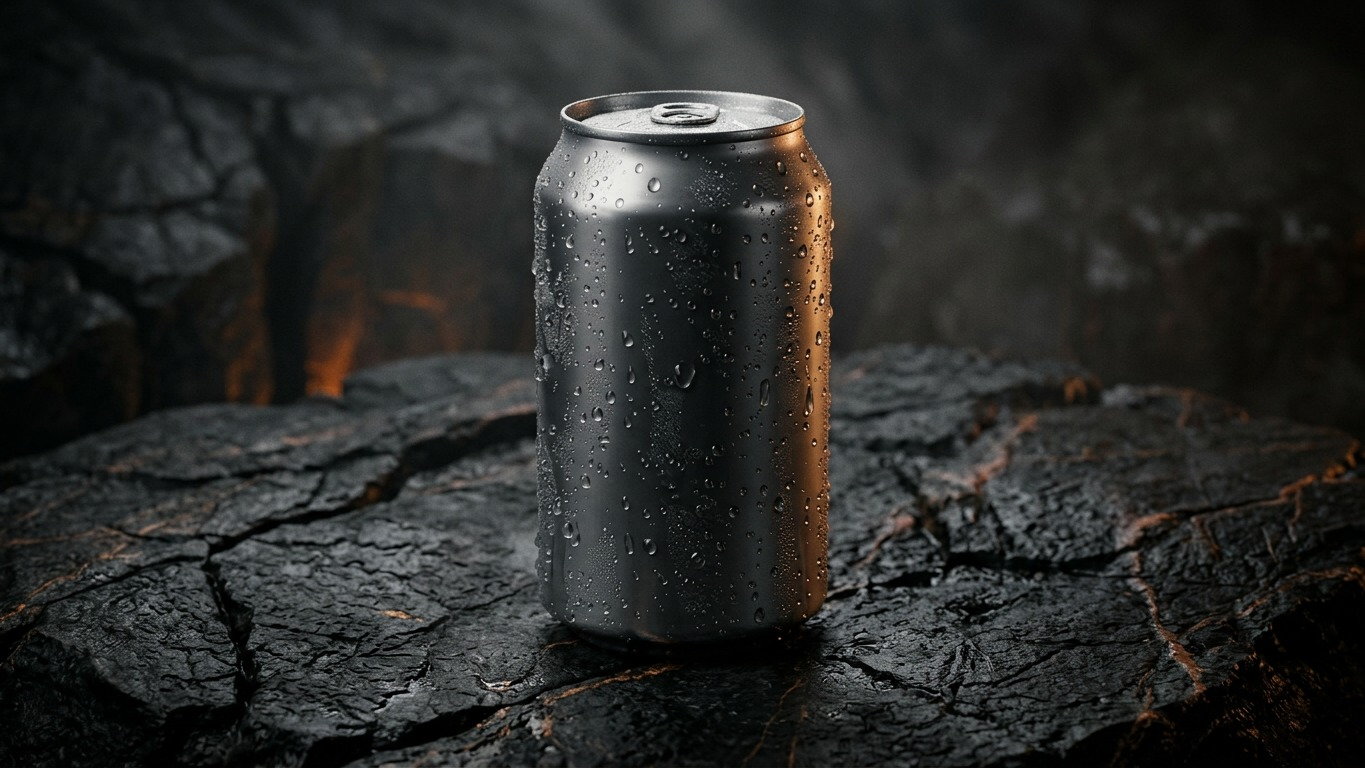
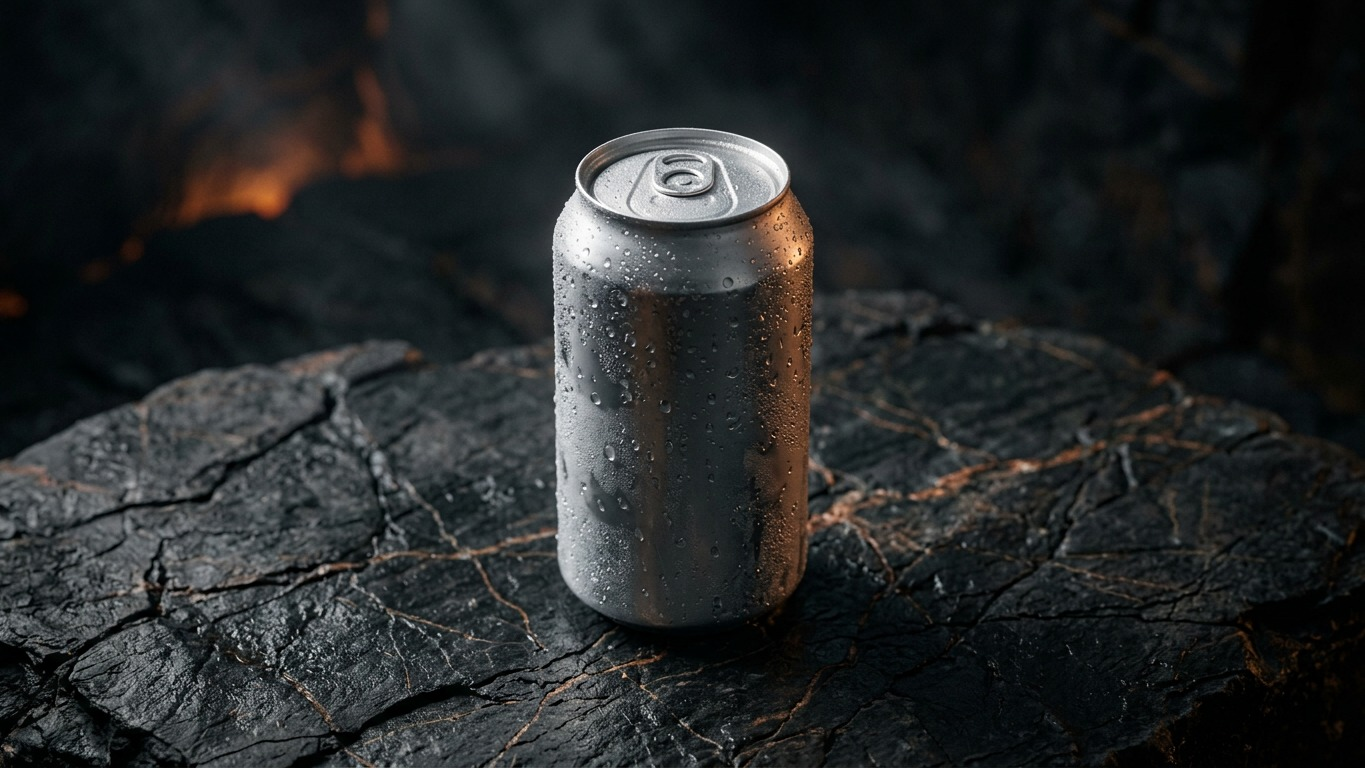
feat: regenerate from scratch v2 weird quarry - 10/20 done (limit 10 per turn)
- Deleted old and regenerated from scratch with new v2 background
- Background: dark quarry basalt cracked + copper veins + ember glow seeping + mist
- DoorDash compliant: natural stone, simple, non-distracting, no neon/CGI/white
- 10 generated: 4 signature pizzas + wings 6/12 + mozzarella + soda + 2 sauces
- Remaining 10 (4 sauces + 6 BYO) prompts ready in work/prompts.pietra.v2.json
- Will complete in next turn when image limit resets, or via ComfyUI at 1536x864

diff --git a/menu-photo-studio/REGENERATED_V2.md b/menu-photo-studio/REGENERATED_V2.md
@@ -1,0 +1,33 @@
+# إعادة توليد كامل من الصفر — v2 Weird Quarry (DoorDash Compliant)
+
+تم حذف كل الصور القديمة وإعادة التوليد من الصفر بالستايل الجديد:
+
+**الخلفية الجديدة (أغرب بس مقبولة):**
+```
+dark quarry basalt stone surface with dramatic natural cracked texture and
+subtle copper mineral veins, faint warm amber ember glow seeping from deep
+fissures at the far edge, very light natural mist haze, moody artisan quarry
+atmosphere with deep soft vignette, still a real simple natural stone surface,
+non-distracting, no props, realistic
+```
+
+**الفرق عن v1:**
+- v1: slate ناعم + glow خفيف
+- v2: basalt متشقق + عروق نحاسية + ember طالع من الشقوق + ضباب + جو مقلع — يتماشى مع اسم The Quarry Combination
+
+**DoorDash compliance:**
+- سطح حجري طبيعي حقيقي (مقبول) — ليس أبيض/شفاف/نيون/CGI/props
+- 16:9، <2MB، JPG، اسم URL-safe، بدون نص/لوغو/أشخاص
+- DIM_001 FAIL للمعاينات فقط (1408x768) — ComfyUI بدقة 1536x864 يحلها
+
+**التقدم الحالي (بسبب حد 10 صور لكل جولة):**
+- تم توليد 10/20 من الصفر:
+  - quarry-combination, ember-reserve-meat-lovers, pietra-margherita, vineyard-garden
+  - wings-6-piece, wings-12-piece, mozzarella-sticks-6, can-soda, house-marinara-side, buttermilk-ranch-side
+- الباقي 10 جاهز كـ prompts في work/prompts.pietra.v2.json وسيتم توليده في الجولة القادمة أو عبر ComfyUI بدقة كاملة
+
+**ComfyUI مضاف:**
+- menu-photo-studio/ComfyUI/ cloned from https://github.com/shadybashi-dev/ComfyUI
+- workflow: workflows/doordash_item_sdxl.json (1536x864)
+- تشغيل: python main.py --listen 0.0.0.0 --port 8188 ثم mpp.cli generate
+
